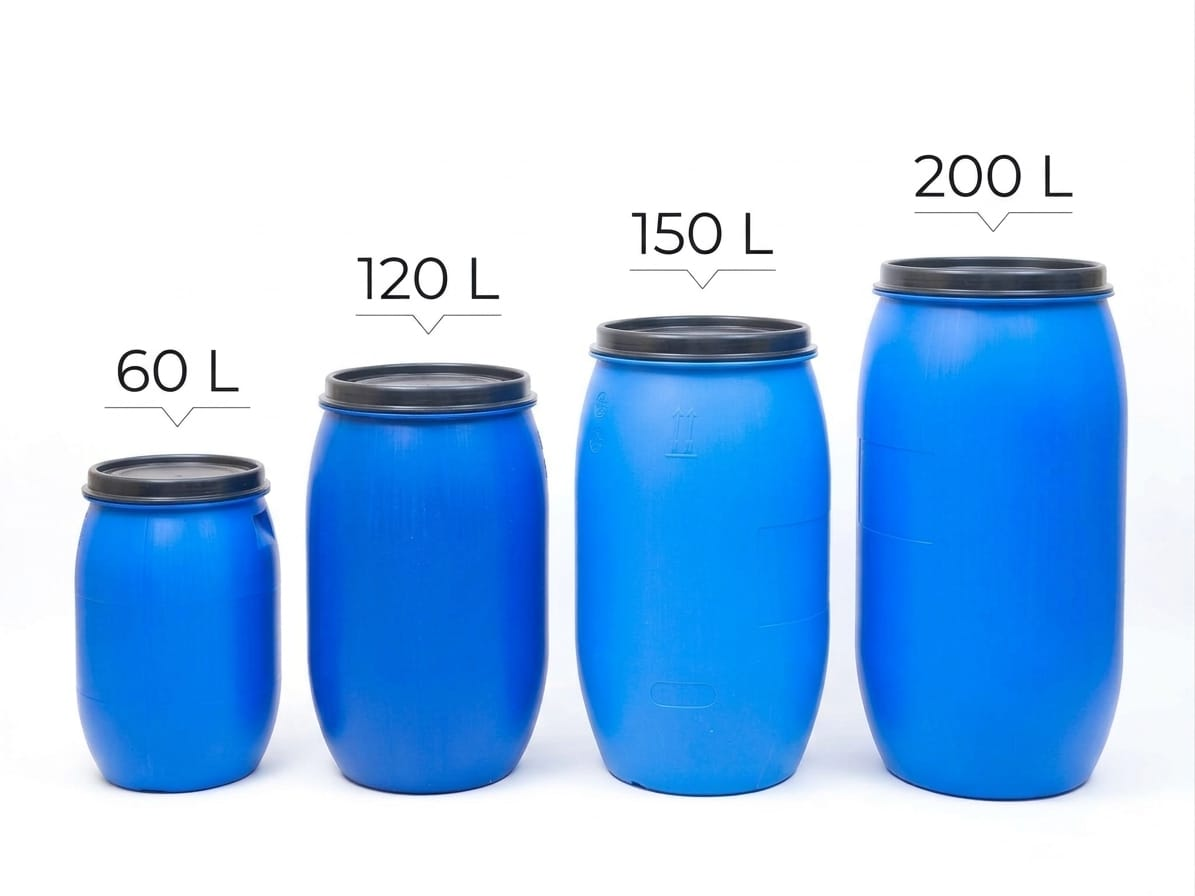
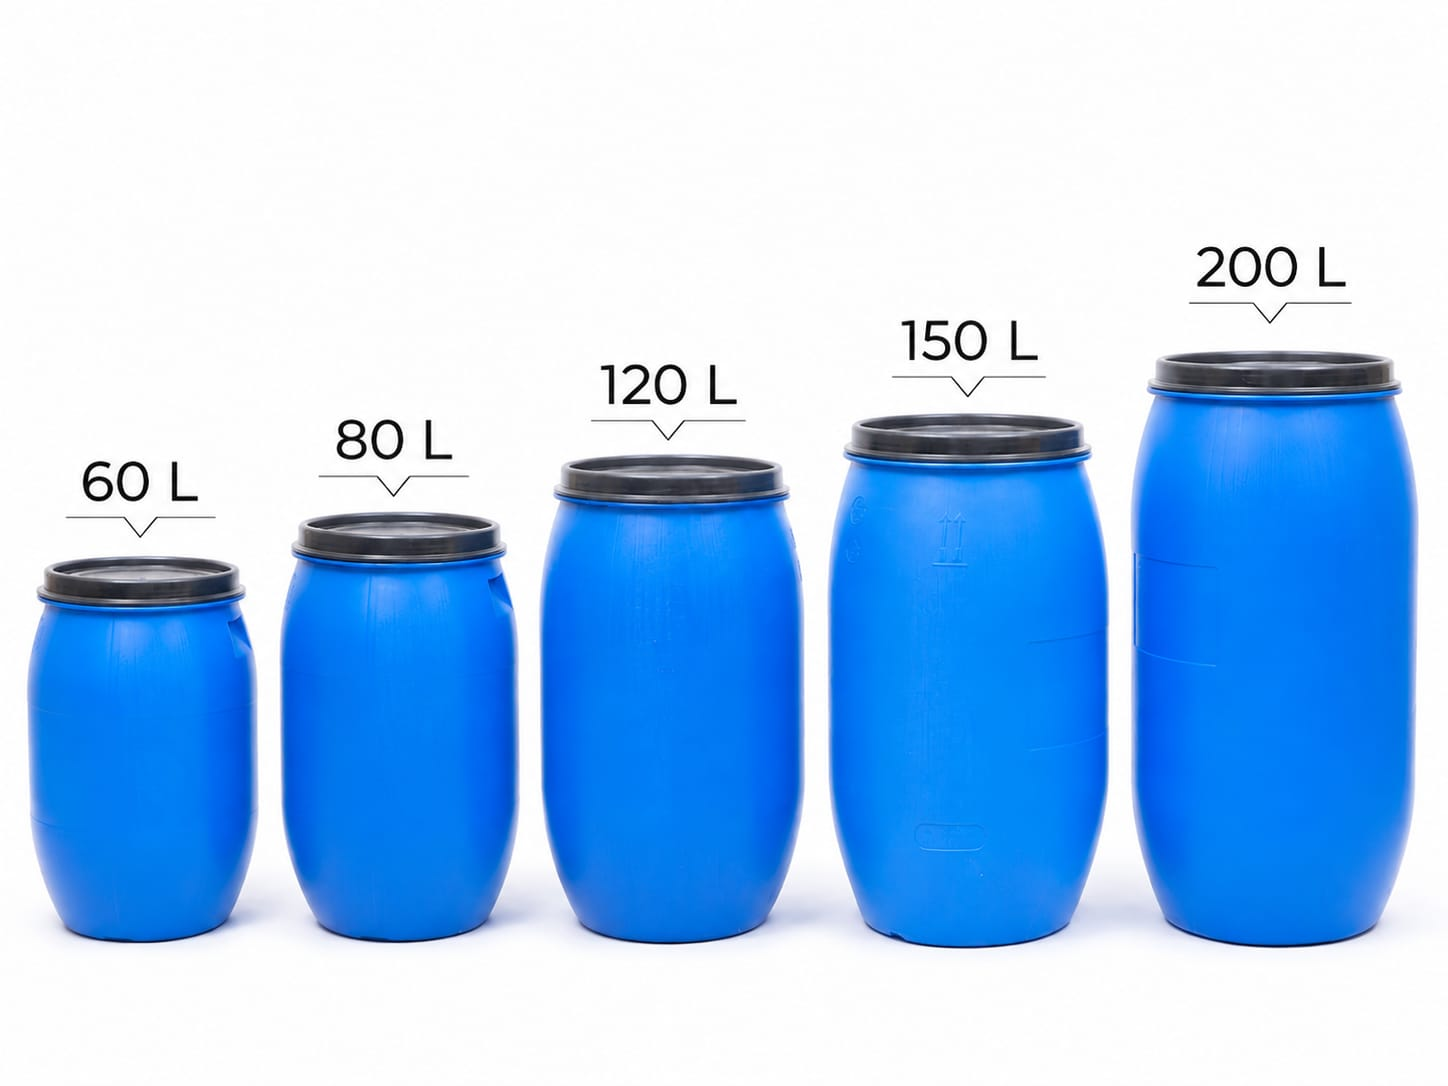
update

diff --git a/database/seeders/DatabaseSeeder.php b/database/seeders/DatabaseSeeder.php
@@ -21,10 +21,10 @@ class DatabaseSeeder extends Seeder
         // ukuran   = angka liter dipisah koma, dipakai filter ukuran
         $products = [
             // ===== DRUM =====
-            ['Drum Open Top 200L, 150L, 120L, 60L', 'drum-open-top-200l-150l-120l-60l', 'drum', 'DRUM',
+            ['Drum Open Top 200L, 150L, 120L, 80L, 60L ', 'drum-open-top-200l-150l-120l-60l', 'drum', 'DRUM',
              "Drum plastik dengan bukaan atas untuk kebutuhan penanganan dan penyimpanan industri. $warna",
-             'Ukuran tersedia: 60, 120, 150, dan 200 liter · Warna bisa custom', 'drum-open-top.jpg',
-             'drum-open-top', '60,120,150,200'],
+             'Ukuran tersedia: 60, 120, 150, 80, dan 200 liter · Warna bisa custom', 'drum-open-top.jpg',
+             'drum-open-top', '60,120,150,80,200'],
 
             ['Drum Double Ring 200L', 'drum-double-ring-200l', 'drum', 'DRUM',
              "Drum plastik double ring untuk menunjang kebutuhan pengadaan dan distribusi industri. $warna",
